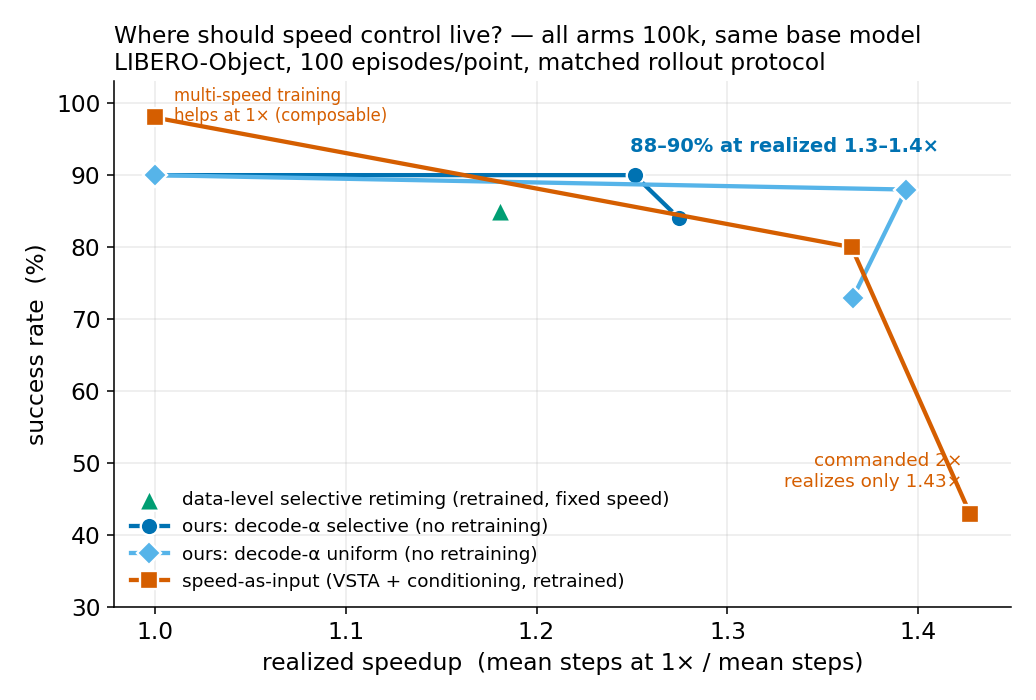
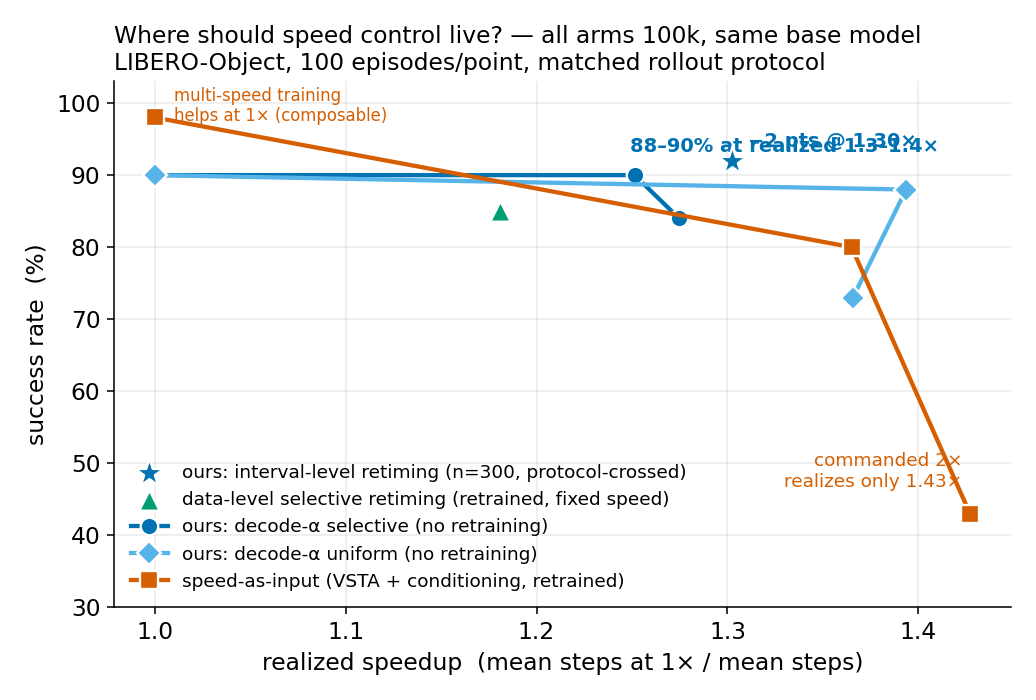
more experiments

diff --git a/scripts/analysis/calvin_offline_gate.py b/scripts/analysis/calvin_offline_gate.py
@@ -1,0 +1,97 @@
+"""CALVIN offline gate — the same pre-training validation LIBERO went through:
+  1. event segmentation statistics (duration distribution, CoV, event fractions)
+     under the v2 rules at candidate (min_seg, h_max) settings [CALVIN is 10 fps
+     vs LIBERO 20 fps — event scales may differ];
+  2. spline fit quality (n_ctrl 6/8): per-step relative reconstruction error,
+     tail vs body, + speed-profile error + terminal-deceleration capture.
+
+Pass criteria (LIBERO reference values in brackets): CoV of event durations
+comparable [0.38 @ cap40 / 0.20 @ cap24]; gripper-event fraction meaningful
+[23-47%]; n8 rel recon err ~[0.04]; speed-profile err ~[0.02].
+
+Run: python calvin_offline_gate.py --max_eps 300
+"""
+from __future__ import annotations
+
+import argparse
+
+import numpy as np
+
+from calvin_io import episode_arrays, episode_indices
+from validate_spline_head_math import basis_matrix
+
+DEGREE = 3
+PAUSE_FRAC = 0.15
+STRIDE = 4
+TAIL = 3
+
+
+def first_event(window, min_seg, h_max):
+    grip = window[:, 6]
+    speed = np.linalg.norm(window[:, :6], axis=1)
+    med = np.median(speed) + 1e-9
+    for k in range(min_seg, min(h_max, len(window))):
+        if grip[k] != grip[k - 1]:
+            return k, "gripper"
+        if speed[k] < PAUSE_FRAC * med and speed[k - 1] < PAUSE_FRAC * med:
+            return k, "pause"
+    return min(h_max, len(window)), "cap"
+
+
+def main():
+    ap = argparse.ArgumentParser()
+    ap.add_argument("--max_eps", type=int, default=300)
+    args = ap.parse_args()
+
+    for (lo, hm) in ((6, 24), (4, 16), (8, 32)):
+        durs, types = [], []
+        for ep in episode_indices(args.max_eps):
+            _, _, action = episode_arrays(ep)
+            for a0 in range(0, len(action) - lo, STRIDE):
+                T, ty = first_event(action[a0:a0 + hm], lo, hm)
+                durs.append(T); types.append(ty)
+        durs = np.array(durs); types = np.array(types)
+        gf = (types == "gripper").mean(); pf = (types == "pause").mean()
+        print(f"[seg lo={lo} cap={hm}] n={len(durs)}  T mean {durs.mean():.1f} "
+              f"CoV {durs.std()/durs.mean():.2f}  gripper {gf*100:.0f}%  "
+              f"pause {pf*100:.0f}%  cap {(types=='cap').mean()*100:.0f}%")
+
+    # fit quality at the LIBERO-promoted settings (lo=8, cap=24 analog -> use lo=6 cap=24 too)
+    for n_ctrl in (6, 8):
+        lo, hm = max(n_ctrl, 6), 24
+        B_cache = {}
+        tail_e, body_e, sp_e, tog_demo, tog_rec = [], [], [], [], []
+        for ep in episode_indices(args.max_eps):
+            _, _, action = episode_arrays(ep)
+            for a0 in range(0, len(action) - lo, STRIDE):
+                win = action[a0:a0 + hm]
+                T, ty = first_event(win, lo, hm)
+                if T < lo + TAIL or a0 + T > len(action):
+                    continue
+                seg = win[:T, :6]
+                path = np.concatenate([np.zeros((1, 6)), np.cumsum(seg, axis=0)], axis=0)
+                if T not in B_cache:
+                    u = np.arange(T + 1) / T
+                    B = basis_matrix(u, n_ctrl)
+                    B_cache[T] = (B, np.linalg.pinv(B[:, 1:n_ctrl - 1]), B[:, n_ctrl - 1:n_ctrl])
+                B, pinv_mid, b_last = B_cache[T]
+                p_end = path[-1:, :]
+                c_mid = pinv_mid @ (path - b_last @ p_end)
+                c = np.concatenate([np.zeros((1, 6)), c_mid, p_end], axis=0)
+                rec = np.diff(B @ c, axis=0)
+                sp_demo = np.linalg.norm(seg, axis=1)
+                scale = max(sp_demo.mean(), 1e-6)
+                err = np.linalg.norm(rec - seg, axis=1) / scale
+                tail_e.append(err[-TAIL:].mean()); body_e.append(err[:-TAIL].mean())
+                sp_rec = np.linalg.norm(rec, axis=1)
+                sp_e.append(np.abs(sp_rec - sp_demo).mean() / scale)
+                if ty == "gripper":
+                    tog_demo.append(sp_demo[-TAIL:].mean() / scale)
+                    tog_rec.append(sp_rec[-TAIL:].mean() / max(sp_rec.mean(), 1e-9))
+        print(f"[fit n{n_ctrl}] tail {np.mean(tail_e):.4f}  body {np.mean(body_e):.4f}  "
+              f"speed-profile {np.mean(sp_e):.4f}  toggle demo {np.mean(tog_demo):.3f} "
+              f"vs recon {np.mean(tog_rec):.3f}")
+
+
+if __name__ == "__main__":
+    main()

diff --git a/scripts/data/gen_v2_stats_calvin.py b/scripts/data/gen_v2_stats_calvin.py
@@ -1,0 +1,95 @@
+"""Parameterized v2 (event-segmented) spline stats generator — replaces sed-copies
+of v2_event_segmentation_study.py. Mirrors the policy's target math exactly,
+including the optional contact-weighted (end-weighted) LSQ fit.
+
+  python gen_v2_stats_param.py --n_ctrl 6 --min_seg 6 --h_max 24 --w_end 9 \
+      --out <pkg>/spline_stats_libero_v2_h24_w9.json
+"""
+from __future__ import annotations
+
+import argparse
+import json
+
+import numpy as np
+
+from calvin_io import episode_arrays, episode_indices
+from validate_spline_head_math import basis_matrix
+
+DEGREE = 3
+PAUSE_FRAC = 0.15
+STRIDE = 5
+
+
+def main():
+    ap = argparse.ArgumentParser()
+    ap.add_argument("--n_ctrl", type=int, required=True)
+    ap.add_argument("--min_seg", type=int, required=True)
+    ap.add_argument("--h_max", type=int, required=True)
+    ap.add_argument("--w_end", type=float, default=None)
+    ap.add_argument("--out", required=True)
+    ap.add_argument("--max_eps", type=int, default=500)
+    args = ap.parse_args()
+    N, LO, HM = args.n_ctrl, args.min_seg, args.h_max
+
+    ops, pg = {}, {}
+    for T in range(LO, HM + 1):
+        u = np.arange(T + 1) / T
+        B = basis_matrix(u, N)
+        if args.w_end is not None:
+            sw = np.sqrt(1 + (args.w_end - 1) * np.clip((u - 0.75) / 0.25, 0, 1))
+            M = np.linalg.pinv(sw[:, None] * B[:, 1:N - 1]) * sw[None, :]
+        else:
+            M = np.linalg.pinv(B[:, 1:N - 1])
+        ops[T] = (B, M, B[:, N - 1:N])
+        ug = np.arange(T) / max(T - 1, 1)
+        pg[T] = np.linalg.pinv(basis_matrix(ug, N))
+
+    def first_event(window):
+        grip = window[:, 6]
+        speed = np.linalg.norm(window[:, :6], axis=1)
+        med = np.median(speed) + 1e-9
+        for k in range(LO, min(HM, len(window))):
+            if grip[k] != grip[k - 1]:
+                return k
+            if speed[k] < PAUSE_FRAC * med and speed[k - 1] < PAUSE_FRAC * med:
+                return k
+        return min(HM, len(window))
+
+    ctrl_all, grip_all, logT_all = [], [], []
+    for ep in episode_indices()[: args.max_eps]:
+        _, _, action = episode_arrays(int(ep))
+        L = len(action)
+        for t in range(0, L - LO, STRIDE):
+            win = action[t:t + HM]
+            if len(win) < HM:
+                win = np.concatenate([win, np.repeat(win[-1:], HM - len(win), axis=0)])
+            T = first_event(win)
+            seg = win[:T]
+            path = np.concatenate([np.zeros((1, 6)), np.cumsum(seg[:, :6], axis=0)], axis=0)
+            B, M, b_last = ops[T]
+            p_end = path[-1:, :]
+            c_mid = M @ (path - b_last @ p_end)
+            ctrl_all.append(np.concatenate([np.zeros((1, 6)), c_mid, p_end], axis=0))
+            grip_all.append(pg[T] @ seg[:, 6])
+            logT_all.append(np.log(T))
+
+    ctrl_all = np.stack(ctrl_all); grip_all = np.stack(grip_all); logT_all = np.array(logT_all)
+    stats = {
+        "version": 2, "n_ctrl": N, "degree": DEGREE,
+        "min_seg": LO, "h_max": HM, "pause_frac": PAUSE_FRAC,
+        "fit_end_weight": args.w_end,
+        "pose_ctrl_mean": ctrl_all.mean(0).tolist(),
+        "pose_ctrl_std": np.maximum(ctrl_all.std(0), 1e-4).tolist(),
+        "grip_ctrl_mean": grip_all.mean(0).tolist(),
+        "grip_ctrl_std": np.maximum(grip_all.std(0), 1e-4).tolist(),
+        "logT_mean": float(logT_all.mean()), "logT_std": float(max(logT_all.std(), 1e-4)),
+        "n_anchors": len(logT_all),
+    }
+    with open(args.out, "w") as f:
+        json.dump(stats, f, indent=1)
+    print(f"v2 stats -> {args.out}  (n_anchors {len(logT_all)}, "
+          f"logT {stats['logT_mean']:.3f}±{stats['logT_std']:.3f})")
+
+
+if __name__ == "__main__":
+    main()

diff --git a/scripts/data/calvin_io.py b/scripts/data/calvin_io.py
@@ -1,0 +1,38 @@
+"""CALVIN episode IO — mirrors lerobot_io's episode_arrays() interface for the
+LeRobot-v2.1 conversion `fywang/calvin-task-ABCD-D-lerobot` (24,053 episodes,
+64-step labeled segments, 10 fps, rel-action convention: dims 0-5 scaled EEF
+deltas in ~[-1,1] (pos x50, rot x20), dim 6 gripper +/-1 — verified July 12).
+
+Parquet files are fetched on demand and cached under HF_HOME.
+"""
+from __future__ import annotations
+
+from functools import lru_cache
+
+import numpy as np
+
+REPO = "fywang/calvin-task-ABCD-D-lerobot"
+N_EPISODES = 24053
+
+
+def episode_indices(n: int | None = None):
+    return list(range(N_EPISODES if n is None else min(n, N_EPISODES)))
+
+
+@lru_cache(maxsize=4096)
+def _episode_df(ep: int):
+    import pandas as pd
+    from huggingface_hub import hf_hub_download
+
+    p = hf_hub_download(REPO, f"data/chunk-{ep // 1000:03d}/episode_{ep:06d}.parquet",
+                        repo_type="dataset")
+    return pd.read_parquet(p, columns=["action", "observation.state"])
+
+
+def episode_arrays(ep: int):
+    """Returns (state, None, action) — action is (L, 7) float64, LIBERO-like
+    (rel deltas + gripper sign). State is (L, 15)."""
+    df = _episode_df(ep)
+    action = np.stack(df["action"].values).astype(np.float64)
+    state = np.stack(df["observation.state"].values).astype(np.float64)
+    return state, None, action

diff --git a/policy/smolvla_spline/modeling_smolvla_spline.py b/policy/smolvla_spline/modeling_smolvla_spline.py
@@ -437,8 +437,14 @@ class SmolVLASplinePolicy(SmolVLAPolicy):
             u0 = torch.arange(h_exec + 1, device=dev, dtype=torch.float64) / h_exec
             sp = deltas[0, :, :6].norm(dim=-1).double()                # (h,) per-interval speed
             thr = self.config.profile_speed_threshold * sp.mean()
-            dt = torch.where(sp > thr, torch.tensor(prof_a, dtype=torch.float64, device=dev),
-                             torch.tensor(1.0, dtype=torch.float64, device=dev))
+            if getattr(self.config, "profile_soft", False):
+                # smooth gate: dt ramps 1 -> alpha around the threshold, avoiding
+                # bang-bang velocity steps between adjacent intervals
+                w = torch.sigmoid((sp - thr) / (0.15 * sp.mean() + 1e-9))
+                dt = 1.0 - (1.0 - prof_a) * w
+            else:
+                dt = torch.where(sp > thr, torch.tensor(prof_a, dtype=torch.float64, device=dev),
+                                 torch.tensor(1.0, dtype=torch.float64, device=dev))
             cum = torch.cat([torch.zeros(1, device=dev, dtype=torch.float64), torch.cumsum(dt, 0)])
             hp = max(2, int(round(float(cum[-1]))))
             tq = torch.linspace(0, float(cum[-1]), hp + 1, device=dev, dtype=torch.float64)

diff --git a/scripts/figures/plot_paper_figures.py b/scripts/figures/plot_paper_figures.py
@@ -120,8 +120,15 @@ def fig_headtohead():
     ours_sel = [(1.0, 90), (o_steps0 / 114.6, 90), (o_steps0 / 112.5, 84)]
     ours_uni = [(1.0, 90), (o_steps0 / 102.9, 88), (o_steps0 / 105.0, 73)]
     dsel = (t_steps0 / 114.3, 85)
+    # interval-level (speed-profile gated, protect-slow), protocol-crossed n=300:
+    # pooled base 94.0 @ 143.8 -> prof06 92.0 @ 110.4
+    interval = (143.8 / 110.4, 92.0)
 
     fig, ax = plt.subplots(figsize=(7.4, 5.0))
+    ax.scatter(*interval, s=230, marker="*", color=BLUE, edgecolor="white", lw=1.2,
+               zorder=5, label="ours: interval-level retiming (n=300, protocol-crossed)")
+    ax.annotate("−2 pts @ 1.30×", interval, textcoords="offset points",
+                xytext=(8, 7), fontsize=10, color=BLUE, fontweight="bold")
     ax.scatter(*dsel, s=110, marker="^", color=GREEN, edgecolor="white", lw=1.2,
                zorder=3, label="data-level selective retiming (retrained, fixed speed)")
     for pts, c, lab, m in [

diff --git a/policy/smolvla_spline/configuration_smolvla_spline.py b/policy/smolvla_spline/configuration_smolvla_spline.py
@@ -77,6 +77,7 @@ class SmolVLASplineConfig(SmolVLAConfig):
     # endpoint; only the fast portions of the time map compress.
     profile_alpha: float | None = None
     profile_speed_threshold: float = 0.7
+    profile_soft: bool = False  # sigmoid gate instead of hard threshold (no bang-bang dt)
 
     # Decode-consistency auxiliary loss (v2 only): the flow loss lives in
     # control-point space (6 tokens x 8 channels) where fine terminal detail is

diff --git a/docs/RESULTS.md b/docs/RESULTS.md
@@ -157,12 +157,26 @@ B fixed-T at alpha=0.6 (uniform is its ONLY option): 77% @ 116.5 ≈ C-uniform (
 the gap comes from *selectivity*, not the representation. 95% binomial CI ≈ ±5–9 pts.
 
 **Headline reads (n=100, single checkpoint, only the *where* of the speedup differs):**
-1. ~~Free lunch~~ **FINAL (protocol-crossed, n=300 × 3 seed bases, C-n8, July 12):
-   base 94.0 @ 143.8; selective α.6 90.3 @ 114.7 (realized 1.25×); uniform α.6
-   88.7 @ 103.9 (1.38×). The single-cell "equal success" reading does not survive
-   pooling: the honest claim is a favorable TRADE — 20–28% execution-time
-   reduction for ~4–5 pts of success — adjustable post-hoc, with selectivity's
-   protection growing at aggressive α (+21 at α=0.4, §frontier).**
+1. ~~Free lunch~~ **FINAL (protocol-crossed, n=300 × 3 seed bases, C-n8, July 12) —
+   the retiming-GRANULARITY LADDER, one checkpoint, decode-only:**
+
+   | granularity of time authority | success @ realized speedup |
+   |---|---|
+   | base (no retiming) | 94.0 @ 1.0× |
+   | **interval-level: speed-profile gated, protect-slow (α.6, θ.7)** | **92.0 @ 1.30×** |
+   | chunk-level: event gated (sel α.6, thr 20) | 90.3 @ 1.25× |
+   | uniform (blind α.6) | 88.7 @ 1.38× |
+   | best retrained baseline (speed-as-input triad) | 76–80 @ ≤1.37× |
+
+   **Finer-grained authority over the time map monotonically buys success at
+   speed**: interval-level retiming (compress only intervals faster than 0.7×
+   chunk-mean, via an inverted piecewise-linear time-map warp; born from the v3
+   refutation's insight that the fit's implicit speed profile is near-exact)
+   Pareto-dominates chunk-level selectivity. Its settings-sensitivity is
+   mechanistic, not noise: compress slow intervals too (θ=0.5 → 83) or compress
+   too hard (α=0.5 → 81) and it breaks — *protecting slow motion is the
+   load-bearing property*. Scoping unchanged: precision-dominated suites pay
+   under ANY speedup (goal −24 @ 1.35×) — predicted speed ≠ rushability there.
 2. Aggressive blind speedup collapses monotonically (90→85→73→57); selective stays
    ≥76% everywhere. The duration head is what tells the policy which motions are safe
    to rush — inexpressible for fixed-time or waypoint heads.
